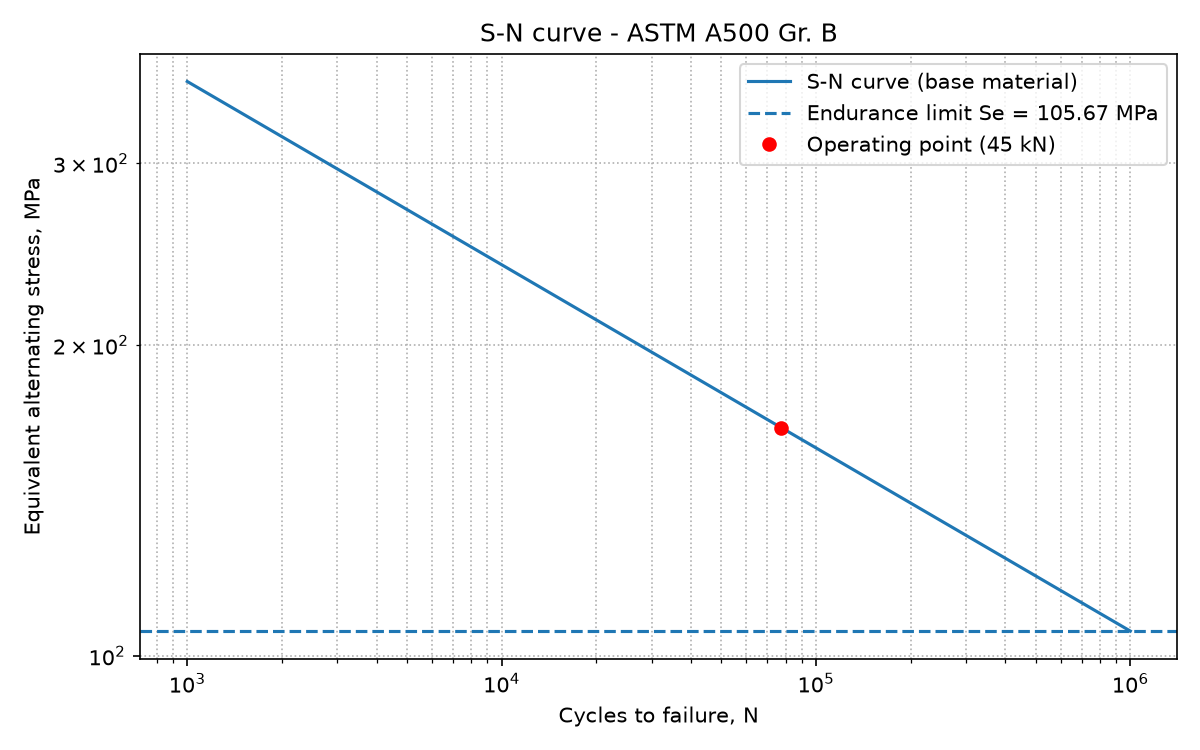
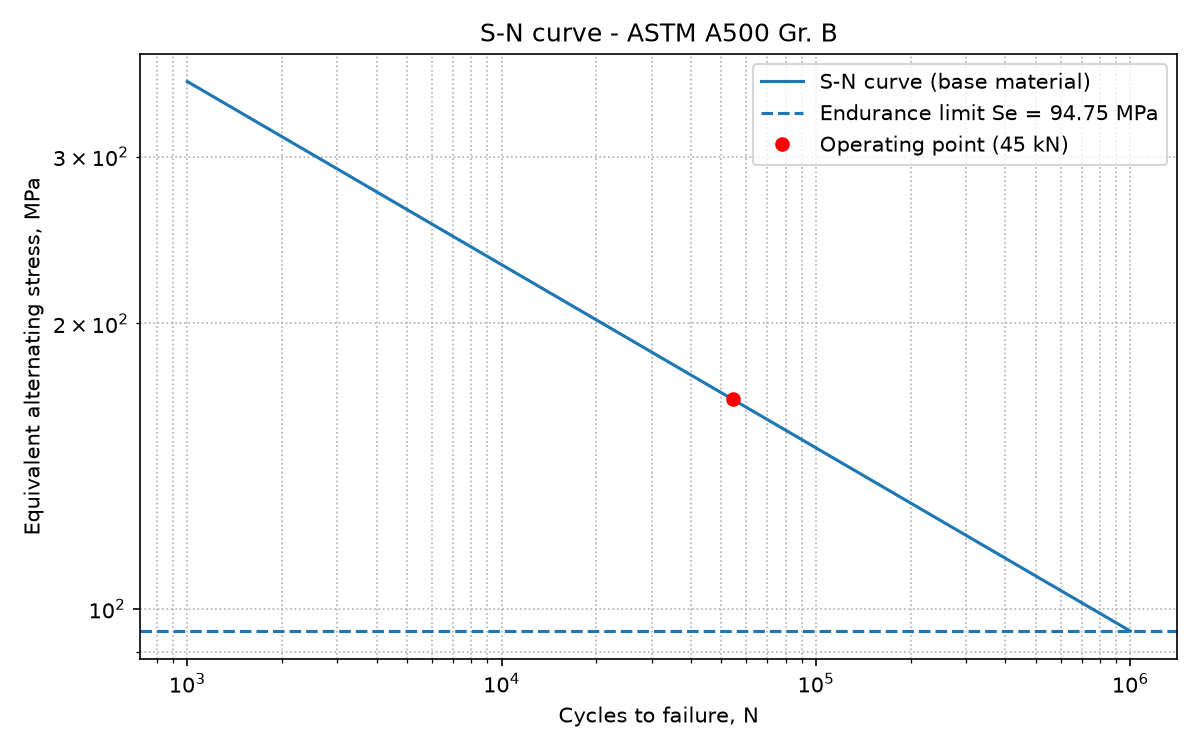
Apply welded joint parameters: forged surface factor and Kf

diff --git a/src/fatigue.py b/src/fatigue.py
@@ -1,17 +1,20 @@
+import math
+
+
 # Fatigue simulator for butt-welded tubular joints
 # ES: Simulador de fatiga para uniones tubulares soldadas a tope
 
 # Stress cycle parameters
 # ES: Parámetros del ciclo de esfuerzo
 
+
 # Material properties: ASTM A500 Gr. B (design assumptions)
 # ES: Propiedades del material: ASTM A500 Gr. B (supuestos de diseño)
 S_UT = 400.0      # Ultimate tensile strength, MPa / ES: Resistencia última, MPa
 S_Y = 290.0       # Yield strength, MPa / ES: Límite de fluencia, MPa
-S_E = 105.67      # Corrected endurance limit, MPa / ES: Límite de fatiga corregido, MPa
+S_E = 94.75       # Corrected endurance limit, MPa / ES: Límite de fatiga corregido, MPa
+K_F = 1.2           # Fatigue stress-concentration factor (reinforced butt weld) / ES: Factor de concentración de esfuerzo por fatiga (soldadura a tope reforzada)
 F_FRACTION = 0.9  # Fatigue strength fraction at 10^3 cycles / ES: Fracción f a 10^3 ciclos
-
-import math
 
 
 def alternating_stress(sigma_max, sigma_min):
@@ -99,8 +102,8 @@ for force_max in [25, 45, 55]:
         continue
 
     sigma_min = bending_stress(force_min, 1200, 114.3, 6.35)
-    sigma_a = alternating_stress(sigma_max, sigma_min)
-    sigma_m = mean_stress(sigma_max, sigma_min)
+    sigma_a = alternating_stress(sigma_max, sigma_min) * K_F
+    sigma_m = mean_stress(sigma_max, sigma_min) * K_F
     sigma_rev = goodman_equivalent_stress(sigma_a, sigma_m, S_UT)
     life = fatigue_life(sigma_rev, S_E, a, b)
 
